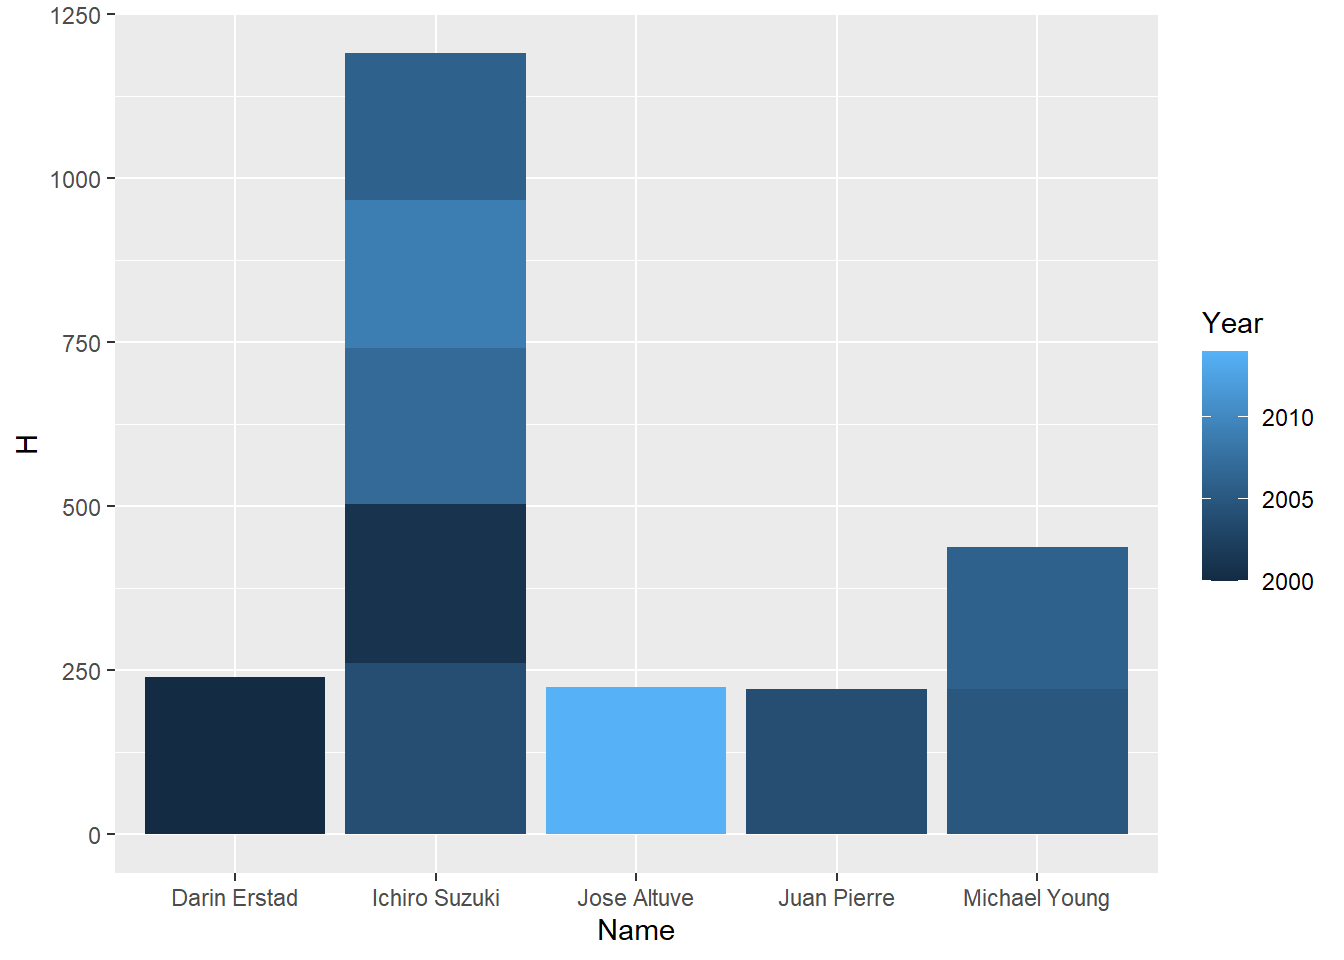
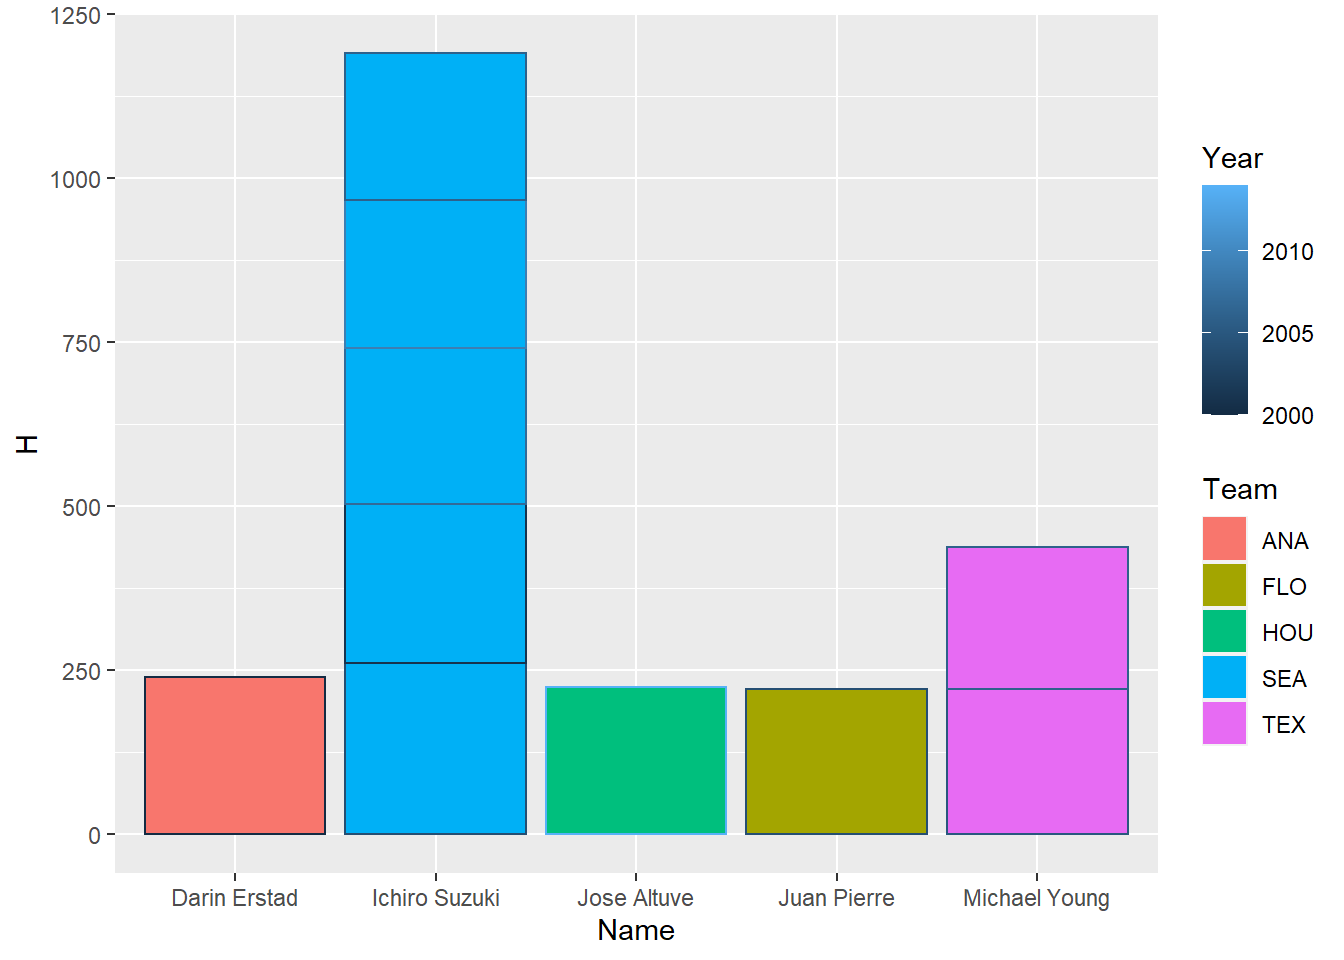
Assignment 2 almost ready.

Changed region(s): [[0.0938, 0.0312, 0.8438, 0.875], [0.875, 0.1562, 1.0, 0.7812]]

diff --git a/content/post/2021-05-28-assignment-a02-tidyverse/index.html b/content/post/2021-05-28-assignment-a02-tidyverse/index.html
@@ -228,7 +228,7 @@ battingrange &lt;- battingrange %&gt;%
   
   
   
-ggplot(battingrange, aes(x = Name, y = H, fill = Year)) +
+ggplot(battingrange, aes(x = Name, y = H, color = Year, fill = Team)) +
   geom_col()</code></pre>
 <p><img src="{{< blogdown/postref >}}index_files/figure-html/unnamed-chunk-8-1.png" width="672" /></p>
 <p>Number of games between 121 and 162</p>
@@ -268,7 +268,12 @@ batting_games %&gt;%
 ##  8 Carlos    Delgado  TOR    2001   162   574   160 0.279    39   111   136
 ##  9 Luis      Gonzalez ARI    2001   162   609   198 0.325    57   100    83
 ## 10 Terrence  Long     OAK    2001   162   629   178 0.283    12    52   103</code></pre>
-<pre class="r"><code>## ggplot using Teams and count for players that played full seasons, use color as year</code></pre>
+<pre class="r"><code>## ggplot using Teams and count for players that played full seasons, use color as year
+ggplot(batting_games, aes(y = Team)) +
+  geom_bar(width=1) +
+  xlab(&quot;Number of Players&quot;) +
+  theme_bw()</code></pre>
+<p><img src="{{< blogdown/postref >}}index_files/figure-html/unnamed-chunk-9-1.png" width="672" /></p>
 </div>
 <div id="pivoting" class="section level2">
 <h2>Pivoting</h2>
